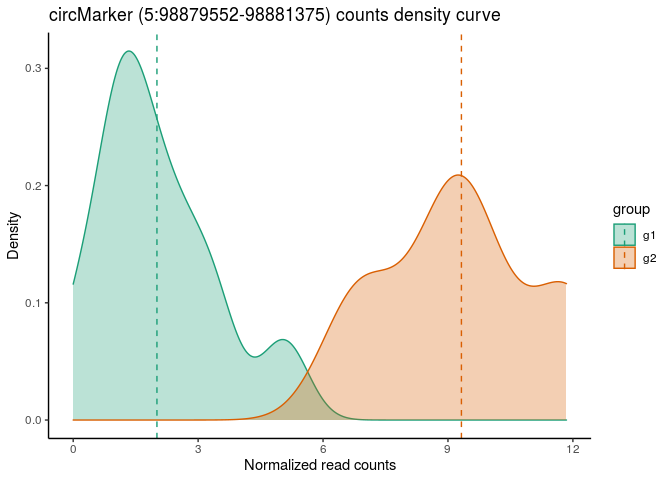
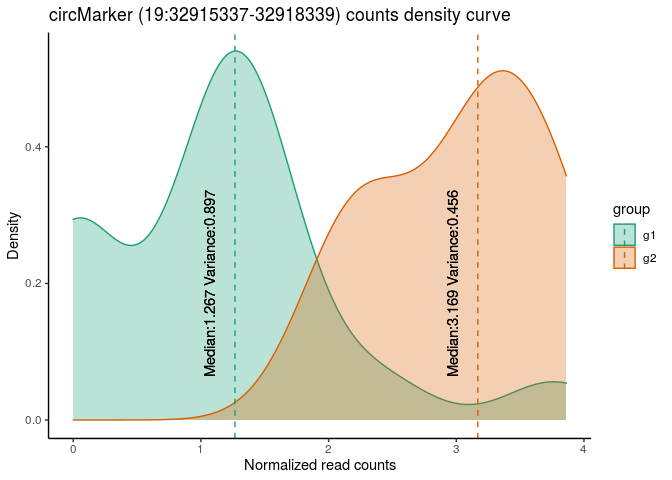
v 0.1.2

diff --git a/README.md b/README.md
@@ -62,27 +62,33 @@ circtarget <- marker.selection(dat = data.filt, dds = dds.filt.expr, sf = sf.fil
 #> The following object is masked from 'package:S4Vectors':
 #> 
 #>     expand
-#> Warning: attributes are not identical across measure variables;
-#> they will be dropped
 ```
 
 For instance, you can see the distribution of circRNA-target:
 
 ``` r
-
+  
 circMark <- circtarget$circ.targetIDS[1]
 circMark_group.df <- circtarget$group.df[circtarget$group.df$circ_id==circMark,]
 circMark_group.df$counts <- merge(circMark_group.df, reshape2::melt(circNormDeseq[circMark,]), by.x = "sample_id", by.y = "row.names")[,"value"]
-mu <- ddply(circMark_group.df, "group", summarise, grp.mean=mean(counts))
+mu <- ddply(circMark_group.df, "group", summarise, Mean=mean(counts), Median=median(counts), Variance=var(counts))
 
 p <- ggplot(circMark_group.df, aes(x=counts, color=group, fill=group)) +
   geom_density(alpha=0.3) + 
-  geom_vline(data=mu, aes(xintercept=grp.mean, color=group),
+  geom_vline(data=mu, aes(xintercept=Median, color=group),
              linetype="dashed") +
-  scale_fill_brewer(palette="Dark2") + 
+  geom_text(data=mu, aes(x=Median[group=="g1"] - 0.2, 
+                         label=paste0("Median:", round(Median[group=="g1"], 3), " Variance:", round(Variance[group=="g1"], 3)), y=0.2),
+            colour="black", angle=90, text=element_text(size=9)) +
+  geom_text(data=mu, aes(x=Median[group=="g2"] - 0.2, 
+                       label=paste0("Median:", round(Median[group=="g2"], 3), " Variance:", round(Variance[group=="g2"], 3)), y=0.2), 
+          colour="black", angle=90, text=element_text(size=11)) +  scale_fill_brewer(palette="Dark2") + 
   scale_color_brewer(palette="Dark2") + 
   labs(title=paste0("circMarker (", circMark, ")", " counts density curve"), x = "Normalized read counts", y = "Density") + 
   theme_classic()
+#> Warning: Ignoring unknown parameters: text
+
+#> Warning: Ignoring unknown parameters: text
 p
 ```
 
